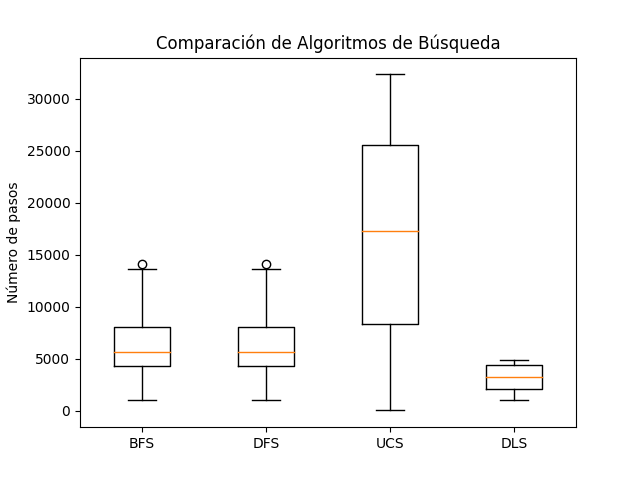
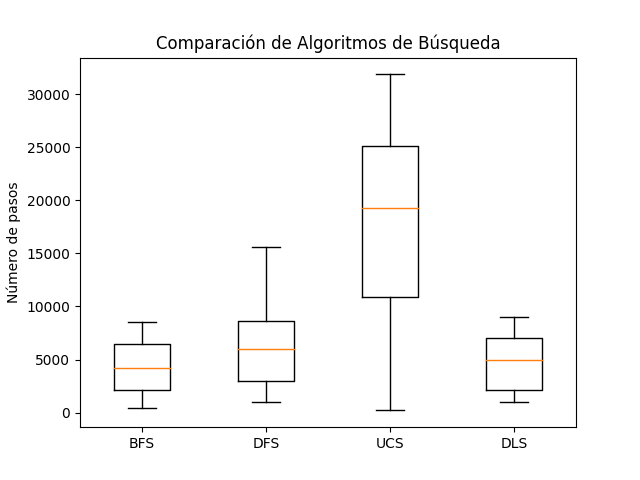
bug fix and finished

diff --git a/tp3-busquedas-no-informadas/code/searchAlgorithms.py b/tp3-busquedas-no-informadas/code/searchAlgorithms.py
@@ -15,15 +15,14 @@ def performAction(position, action):
         return x, y + 1
 
 def bfs(env, start, goal):
-
-    list = deque([Node(start)])
+    node = Node(start)
+    queue = [node] 
 
     visited = set()
     count = 0
 
-    while list:
-
-        node = list.pop()
+    while queue:
+        node = queue.pop()
         visited.add(node.position)
         count += 1
 
@@ -32,15 +31,18 @@ def bfs(env, start, goal):
         
         for action in ["arriba", "abajo", "izquierda", "derecha"]:
             x, y = performAction(node.position, action)
-            if (x,y) not in visited and env.isValidLocation(x,y):
-                new_node = Node((x,y), node,)
-                list.append(new_node)
+            if (x, y) not in visited and env.isValidLocation(x, y):
+                new_node = Node((x, y), node, action)
+                visited.add(new_node.position)  # Marcamos el nuevo nodo como visitado
+                queue.append(new_node)
     
     return None
 
+
 def dfs(env, start, goal):
 
-    stack = [Node(start)]
+    node = Node(start)
+    stack = [node]
     visited = set()
     count = 0
 
@@ -90,17 +92,15 @@ def ucs(env, start, goal):
     return None
 
 def dls(env, start, goal, limit):
-
     stack = [Node(start)]
     visited = set()
     count = 0
 
     while stack:
-
-        node = stack.pop(0)
+        node = stack.pop()
         count += 1
         visited.add(node.position)
-        limit -=1
+        limit -= 1
 
         if node.position == goal:
             return count
@@ -110,9 +110,10 @@ def dls(env, start, goal, limit):
         
         for action in ["arriba", "abajo", "izquierda", "derecha"]:
             x, y = performAction(node.position, action)
-            if (x,y) not in visited and env.isValidLocation(x,y):
-                new_node = Node((x,y), node,)
-                stack.insert(0,new_node)
+            if (x, y) not in visited and env.isValidLocation(x, y):
+                new_node = Node((x, y), node)
+                stack.append(new_node)
 
     return None
+
     

diff --git a/tp3-busquedas-no-informadas/code/main.py b/tp3-busquedas-no-informadas/code/main.py
@@ -4,6 +4,7 @@ from environment import Environment
 from searchAlgorithms import *
 import matplotlib.pyplot as plt
 import csv
+import statistics
 
 def randomPos(max):
     return random.randint(0, max - 1)
@@ -32,7 +33,7 @@ for i in range(0,iterations):
     resultsDFS.append(dfs(env,env.start, env.goal))
     resultsUCS.append(ucs(env,env.start, env.goal))
     limit = math.ceil(len(env.grid)*len(env.grid[0])/2)
-    result=dls(env,env.start, env.goal, limit)
+    result=dls(env,env.start, env.goal, limit+4000)
     if result != None:
         resultsDLS.append(result)
 
@@ -52,6 +53,17 @@ plt.boxplot(all_results, labels=algorithms)
 plt.ylabel('Número de pasos')
 plt.title('Comparación de Algoritmos de Búsqueda')
 plt.savefig('boxplot_resultados.png')
+
+mean_results = [statistics.mean(results) for results in all_results]
+std_dev_results = [statistics.stdev(results) for results in all_results]
+
+print(" ")
+
+for i, algorithm in enumerate(algorithms):
+    print(f"Algoritmo: {algorithm}")
+    print(f"Media: {mean_results[i]}")
+    print(f"Desviación estándar: {std_dev_results[i]}")
+    print()
 
 with open('no-informada-results.csv', 'w', newline='') as csvfile:
     fieldnames = ['algorithm_name', 'run_n', 'estate_n', 'solution_found']
